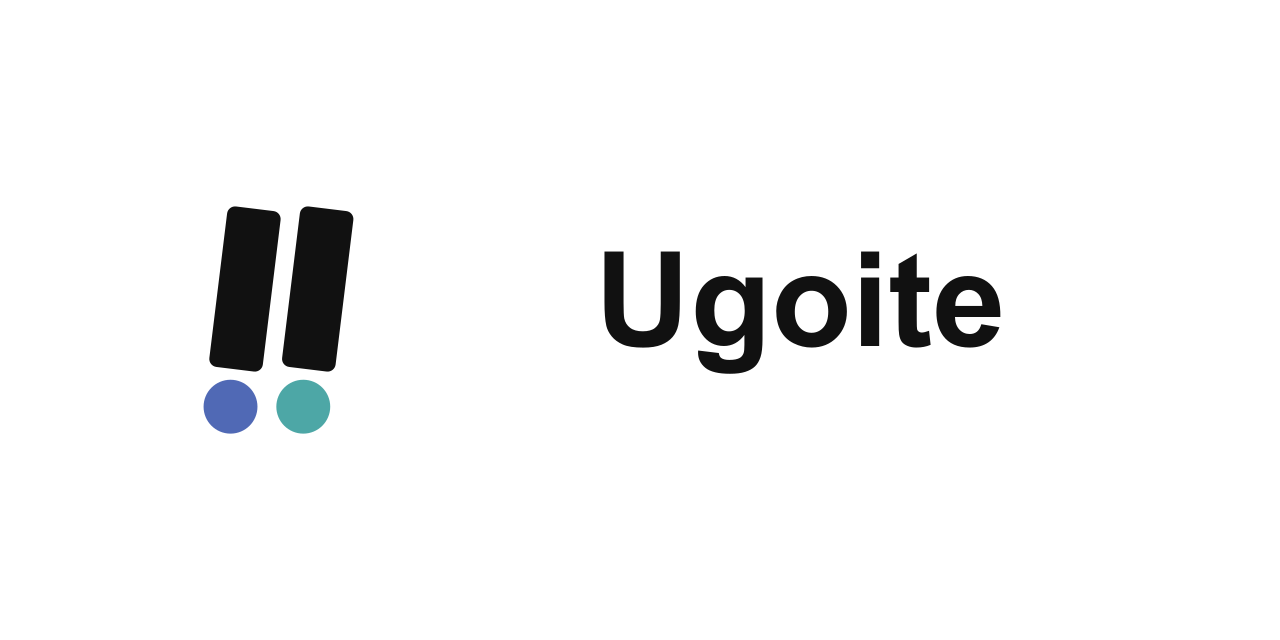
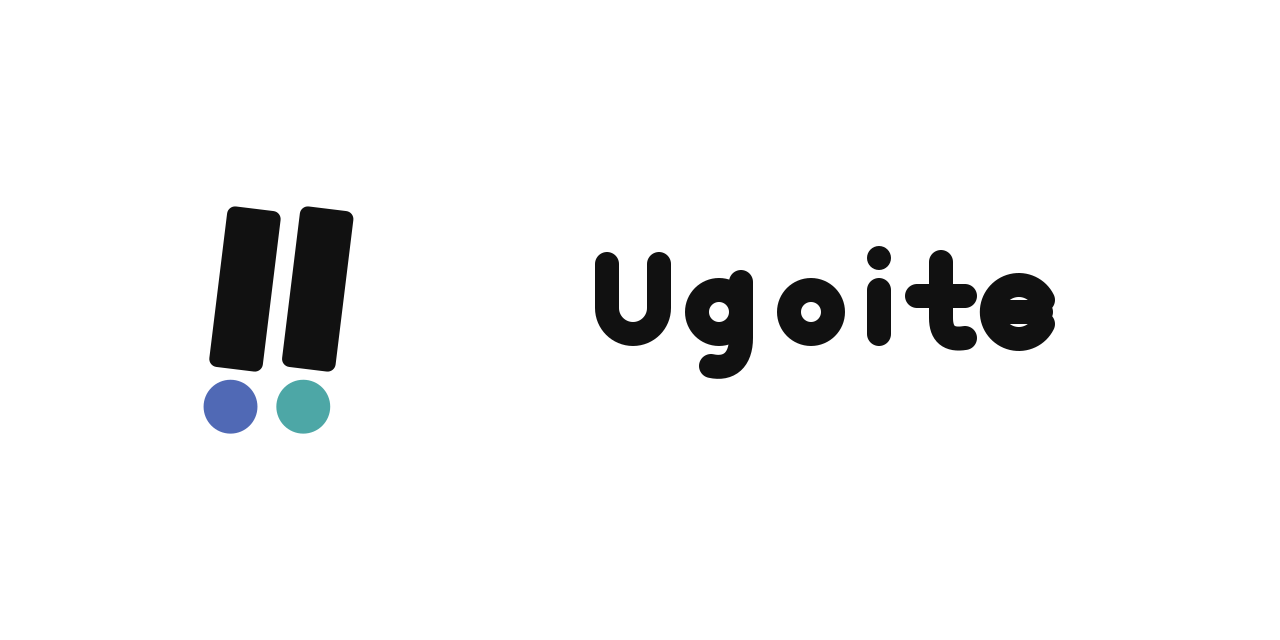
Render social preview wordmark from host-independent vector geometry
The social preview label previously used an SVG text element with a
system-resolved sans-serif font, so regeneration rasterized differently
depending on host fonts. The generator now draws Ugoite from fixed
vector paths with absolute coordinates, keeping the baseline, cap
height, and ink unchanged. Only the social PNG and its manifest entry
change; all other generated assets are byte-identical. Docs and a
generator host-independence test record the provenance.

Refs #3207

Changed region(s): [[0.4375, 0.375, 0.8438, 0.5938]]

diff --git a/frontend/scripts/generate-brand-icons.ts b/frontend/scripts/generate-brand-icons.ts
@@ -50,8 +50,19 @@ function ico(frames: Uint8Array[]): Uint8Array {
   return Buffer.concat([header, ...frames]);
 }
 
+// The social preview wordmark is fixed vector geometry, not host-resolved
+// text. A previous revision rendered "Ugoite" through an SVG text element
+// with a system sans-serif font, so the PNG rasterized differently depending
+// on the fonts installed on the machine running the generator. These paths,
+// circles, and strokes use absolute coordinates only, which keeps the output
+// byte-identical on every host with the pinned renderer below. The geometry
+// shares the previous label's baseline (y=346), cap top (y=252), and ink
+// (#111111); only the rendering method changed.
+const socialWordmark =
+  `<g fill="none" stroke="#111111" stroke-width="24" stroke-linecap="round" stroke-linejoin="round"><path d="M607,264 V308 A26,26 0 0 0 659,308 V264"/><circle cx="719" cy="312" r="22"/><path d="M741,282 V338 C741,360 729,370 711,366"/><circle cx="811" cy="312" r="22"/><path d="M879,290 V334"/><circle cx="879" cy="258" r="12" fill="#111111" stroke="none"/><path d="M941,262 V318 Q941,342 965,338"/><path d="M917,296 H965"/><path d="M1043,300 A27,27 0 1 0 1043,324"/><path d="M1001,312 H1041"/></g>`;
+
 const socialSvg =
-  `<svg xmlns="http://www.w3.org/2000/svg" width="1280" height="640"><rect width="1280" height="640" fill="#FFFFFF"/><text x="595" y="346" font-family="Arial, Helvetica, sans-serif" font-size="132" font-weight="600" fill="#111111">Ugoite</text></svg>`;
+  `<svg xmlns="http://www.w3.org/2000/svg" width="1280" height="640"><rect width="1280" height="640" fill="#FFFFFF"/>${socialWordmark}</svg>`;
 
 const outputs: Array<
   { path: URL; bytes: Uint8Array; width: number; height: number }

diff --git a/tools/brand_icons_test.ts b/tools/brand_icons_test.ts
@@ -66,6 +66,26 @@ Deno.test("brand icon provenance matches all generated files", async () => {
   assert((await Deno.stat(social.path)).size < 1_000_000);
 });
 
+Deno.test("social preview wordmark renders without host fonts", async () => {
+  const generator = await Deno.readTextFile(
+    "frontend/scripts/generate-brand-icons.ts",
+  );
+  assertEquals(
+    /<text[\s>/]/.test(generator),
+    false,
+    "social preview must not use SVG text elements",
+  );
+  assertEquals(
+    generator.includes("font-family"),
+    false,
+    "social preview must not resolve host fonts",
+  );
+  assert(
+    generator.includes("socialWordmark"),
+    "social preview wordmark must be embedded vector geometry",
+  );
+});
+
 Deno.test("favicon is an ICO with 16, 32, 48, and 64 pixel PNG frames", async () => {
   const bytes = await Deno.readFile("frontend/public/favicon.ico");
   const view = new DataView(bytes.buffer, bytes.byteOffset, bytes.byteLength);

diff --git a/docs/architecture/branding/brand-icons.md b/docs/architecture/branding/brand-icons.md
@@ -21,7 +21,9 @@ of the original mark geometry. The original transparent SVG remains in the
 sidebar and login UI.
 
 The social preview is 1280×640 PNG with a white background, the mark, and the
-name “Ugoite”. The organization avatar image is square and leaves room for
+name “Ugoite”. The name is drawn from fixed vector geometry embedded in the
+generator, never from a host-resolved system font, so regenerating the image
+on a machine without the original fonts produces byte-identical output. The organization avatar image is square and leaves room for
 GitHub's circular crop. Both are prepared images; committing them does not
 change GitHub settings. An organization owner must decide whether to apply the
 avatar because it affects the whole `ugoite` organization. A repository
